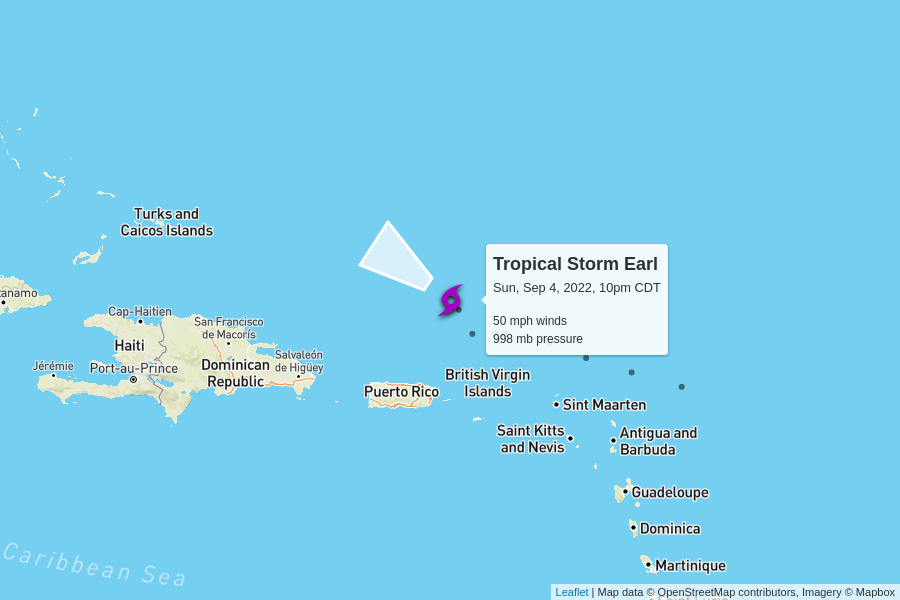
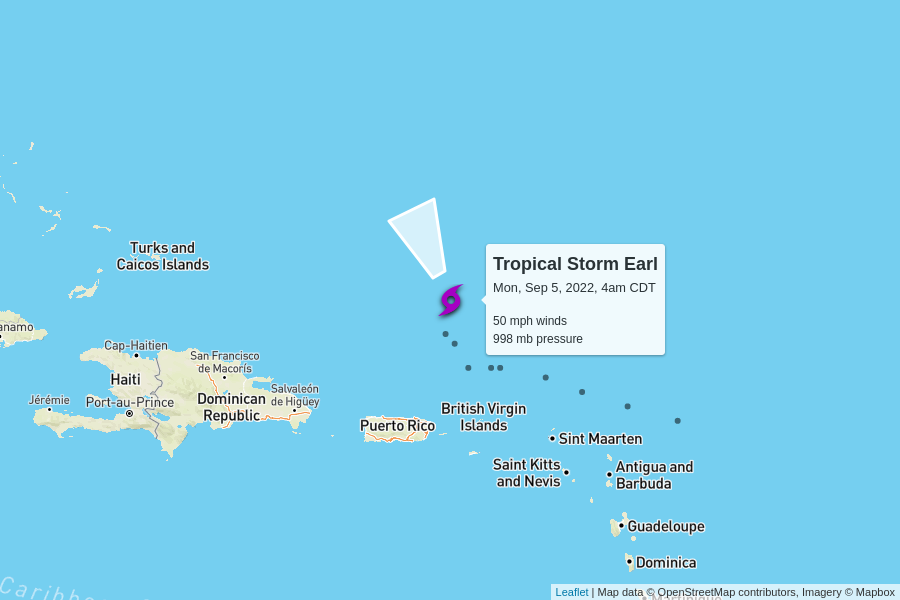
automatic update

diff --git a/docs/index.html b/docs/index.html
@@ -100,7 +100,7 @@
         <td colspan="6" class="storm category-1" >
           <h2>
             Hurricane Danielle - Category 1
-            <p class="updated">last updated <span data-time>2022-09-05T03:00:00.000Z</span></p>
+            <p class="updated">last updated <span data-time>2022-09-05T09:00:00.000Z</span></p>
           </h2>
         </td>
       </tr>
@@ -118,9 +118,9 @@
         <td>90 mph</td>
         <td>975 mb</td>
         <td>
-          7 mph to the northeast
+          8 mph to the north-northeast
           <br/>
-          <span style="display: inline-block; font-size: 1.5em; transform: rotate(35deg);">↑</span>
+          <span style="display: inline-block; font-size: 1.5em; transform: rotate(30deg);">↑</span>
         </td>
         <td><a href="https://raw.githubusercontent.com/mgwalker/atlantic-hurricanes/main/data/csv/AL052022.csv">AL052022.csv</a></td>
         <td><a href="https://www.nhc.noaa.gov/archive/2022/DANIELLE.shtml?">NHC advisories</a></td>
@@ -144,7 +144,7 @@
         <td colspan="6" class="storm category-0" >
           <h2>
             Tropical Storm Earl
-            <p class="updated">last updated <span data-time>2022-09-05T03:00:00.000Z</span></p>
+            <p class="updated">last updated <span data-time>2022-09-05T09:00:00.000Z</span></p>
           </h2>
         </td>
       </tr>
@@ -162,9 +162,9 @@
         <td>50 mph</td>
         <td>998 mb</td>
         <td>
-          3 mph to the northwest
+          5 mph to the north-northwest
           <br/>
-          <span style="display: inline-block; font-size: 1.5em; transform: rotate(305deg);">↑</span>
+          <span style="display: inline-block; font-size: 1.5em; transform: rotate(335deg);">↑</span>
         </td>
         <td><a href="https://raw.githubusercontent.com/mgwalker/atlantic-hurricanes/main/data/csv/AL062022.csv">AL062022.csv</a></td>
         <td><a href="https://www.nhc.noaa.gov/archive/2022/EARL.shtml?">NHC advisories</a></td>
